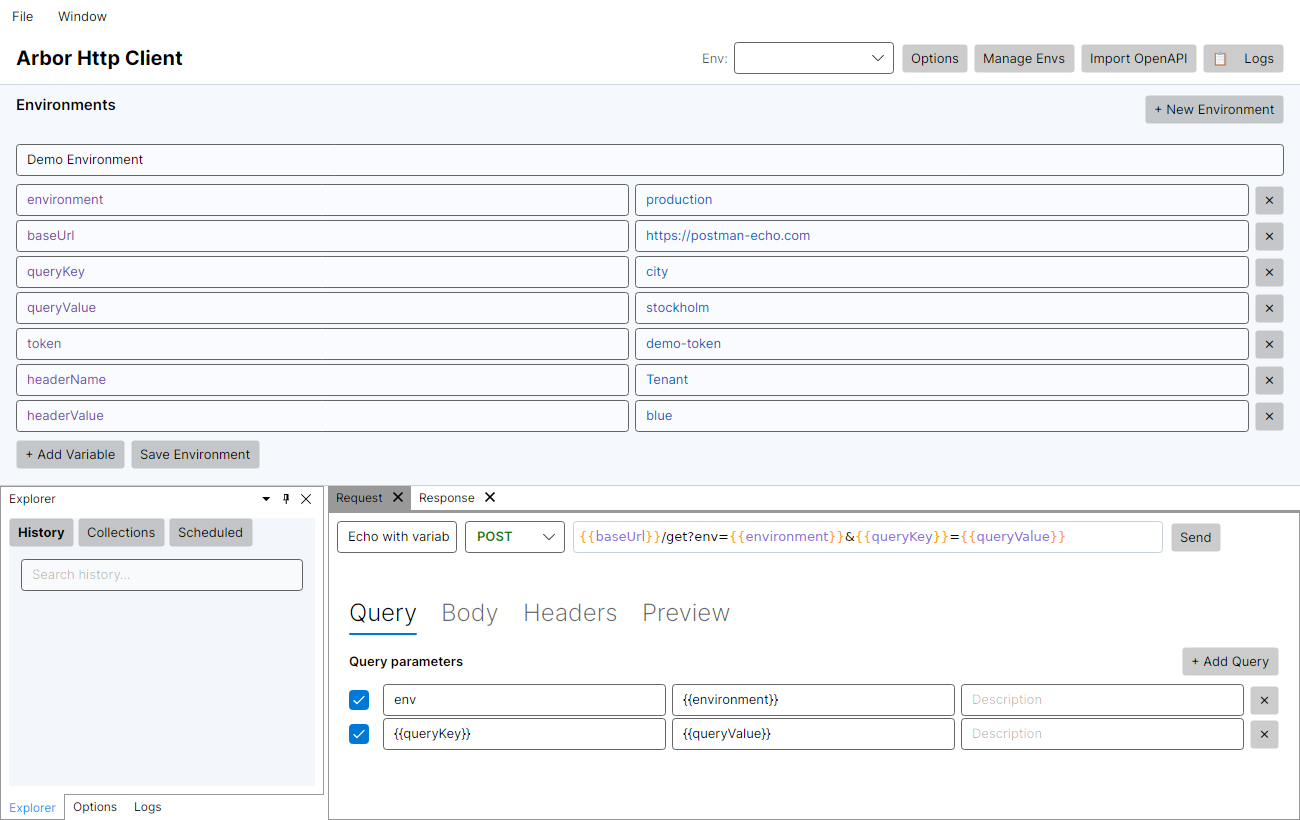
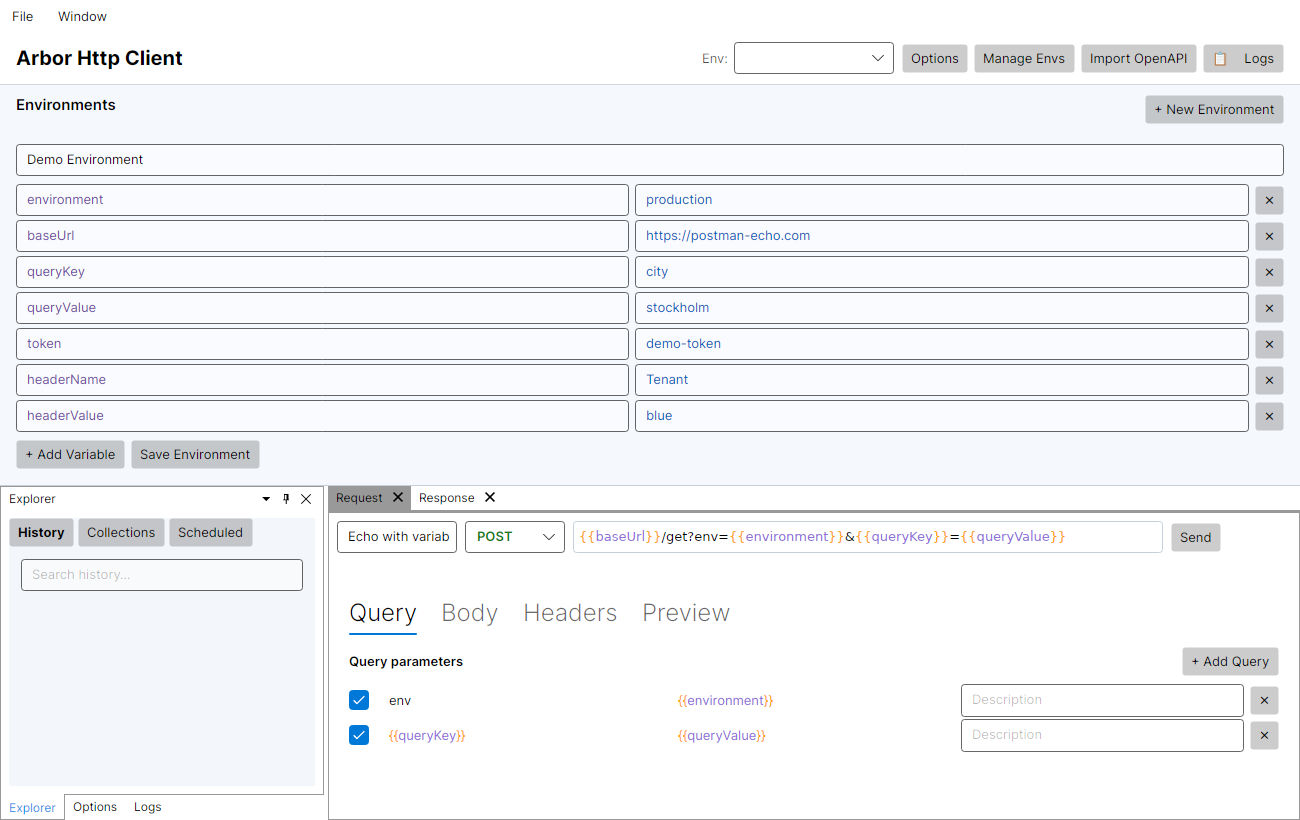
VariableTextBox: two-colour variable highlighting in query/header key+value inputs
Agent-Logs-Url: https://github.com/niklaslundberg/Arbor.HttpClient/sessions/225b7a9d-043f-45ff-8d0f-ff84c1bf80d8

diff --git a/src/Arbor.HttpClient.Desktop/Views/VariableTextBox.cs b/src/Arbor.HttpClient.Desktop/Views/VariableTextBox.cs
@@ -1,0 +1,168 @@
+using Avalonia;
+using Avalonia.Controls;
+using Avalonia.Controls.Primitives;
+using Avalonia.Media;
+
+namespace Arbor.HttpClient.Desktop.Views;
+
+/// <summary>
+/// A single-line text input that highlights <c>{{variable}}</c> tokens with two-colour syntax
+/// coloring (bracket colour vs. name colour) while otherwise appearing identical to a Fluent
+/// <c>TextBox</c>. Use <see cref="TextProperty"/> with <c>Mode=TwoWay</c> for data binding.
+/// </summary>
+public sealed class VariableTextBox : UserControl
+{
+    public static readonly StyledProperty<string> TextProperty =
+        AvaloniaProperty.Register<VariableTextBox, string>(nameof(Text), defaultValue: string.Empty);
+
+    public static readonly StyledProperty<string> PlaceholderTextProperty =
+        AvaloniaProperty.Register<VariableTextBox, string>(nameof(PlaceholderText), defaultValue: string.Empty);
+
+    private readonly AvaloniaEdit.TextEditor _editor;
+    private readonly TextBlock _placeholder;
+    private readonly VariableTokenColorizer _colorizer = new();
+    private readonly Border _border;
+    private bool _updatingText;
+
+    public string Text
+    {
+        get => GetValue(TextProperty);
+        set => SetValue(TextProperty, value);
+    }
+
+    public string PlaceholderText
+    {
+        get => GetValue(PlaceholderTextProperty);
+        set => SetValue(PlaceholderTextProperty, value);
+    }
+
+    public VariableTextBox()
+    {
+        _editor = new AvaloniaEdit.TextEditor
+        {
+            ShowLineNumbers = false,
+            WordWrap = false,
+            HorizontalScrollBarVisibility = ScrollBarVisibility.Hidden,
+            VerticalScrollBarVisibility = ScrollBarVisibility.Hidden,
+            Padding = new Thickness(5, 6, 5, 6),
+            Background = Brushes.Transparent
+        };
+        _editor.TextArea.Background = Brushes.Transparent;
+        _editor.TextArea.TextView.LineTransformers.Add(_colorizer);
+        _editor.Document.TextChanged += OnEditorTextChanged;
+
+        _placeholder = new TextBlock
+        {
+            Margin = new Thickness(7, 0, 0, 0),
+            VerticalAlignment = Avalonia.Layout.VerticalAlignment.Center,
+            IsHitTestVisible = false,
+            Opacity = 0.5,
+            IsVisible = true
+        };
+
+        var layer = new Grid();
+        layer.Children.Add(_placeholder);
+        layer.Children.Add(_editor);
+
+        _border = new Border
+        {
+            BorderThickness = new Thickness(1),
+            CornerRadius = new CornerRadius(3),
+            Child = layer
+        };
+
+        Content = _border;
+
+        ActualThemeVariantChanged += (_, _) => ApplyBrushes();
+    }
+
+    protected override void OnAttachedToVisualTree(VisualTreeAttachmentEventArgs e)
+    {
+        base.OnAttachedToVisualTree(e);
+        ApplyFont();
+        ApplyBrushes();
+    }
+
+    protected override void OnPropertyChanged(AvaloniaPropertyChangedEventArgs change)
+    {
+        base.OnPropertyChanged(change);
+
+        if (change.Property == TextProperty && !_updatingText)
+        {
+            var text = GetValue(TextProperty) ?? string.Empty;
+            if (_editor.Text != text)
+            {
+                _editor.Text = text;
+            }
+            _placeholder.IsVisible = string.IsNullOrEmpty(text);
+        }
+        else if (change.Property == PlaceholderTextProperty)
+        {
+            _placeholder.Text = GetValue(PlaceholderTextProperty);
+        }
+        else if (change.Property == FontFamilyProperty)
+        {
+            _editor.FontFamily = FontFamily;
+            _placeholder.FontFamily = FontFamily;
+        }
+        else if (change.Property == FontSizeProperty)
+        {
+            _editor.FontSize = FontSize;
+            _placeholder.FontSize = FontSize;
+        }
+    }
+
+    private void OnEditorTextChanged(object? sender, EventArgs e)
+    {
+        _updatingText = true;
+        try
+        {
+            var text = _editor.Text;
+            SetValue(TextProperty, text);
+            _placeholder.IsVisible = string.IsNullOrEmpty(text);
+        }
+        finally
+        {
+            _updatingText = false;
+        }
+    }
+
+    private void ApplyFont()
+    {
+        _editor.FontFamily = FontFamily;
+        _editor.FontSize = FontSize;
+        _placeholder.FontFamily = FontFamily;
+        _placeholder.FontSize = FontSize;
+    }
+
+    private void ApplyBrushes()
+    {
+        IBrush bracketBrush = Brushes.Orange;
+        IBrush nameBrush = Brushes.MediumPurple;
+
+        if (Application.Current?.TryGetResource("VariableBracketBrush", out var b) == true && b is IBrush bb)
+        {
+            bracketBrush = bb;
+        }
+
+        if (Application.Current?.TryGetResource("VariableNameBrush", out var n) == true && n is IBrush nb)
+        {
+            nameBrush = nb;
+        }
+
+        _colorizer.SetBrushes(bracketBrush, nameBrush);
+        _editor.TextArea.TextView.Redraw();
+
+        if (Application.Current?.TryGetResource("PanelBorderBrush", out var borderResource) == true &&
+            borderResource is IBrush borderBrush)
+        {
+            _border.BorderBrush = borderBrush;
+        }
+
+        if (Application.Current?.TryGetResource("SurfaceBackgroundBrush", out var bgResource) == true &&
+            bgResource is IBrush bgBrush)
+        {
+            _border.Background = bgBrush;
+        }
+    }
+}

diff --git a/src/Arbor.HttpClient.Desktop.E2E.Tests/ScreenshotGenerator.cs b/src/Arbor.HttpClient.Desktop.E2E.Tests/ScreenshotGenerator.cs
@@ -197,6 +197,120 @@ public class ScreenshotGenerator
     }
 
     [Fact]
+    public async Task GenerateVariablesQueryTabScreenshot()
+    {
+        var outputDir = Environment.GetEnvironmentVariable("SCREENSHOT_OUTPUT_DIR")
+            ?? Path.GetTempPath();
+        Directory.CreateDirectory(outputDir);
+
+        using var session = HeadlessUnitTestSession.StartNew(typeof(ScreenshotEntryPoint));
+
+        await session.Dispatch(async () =>
+        {
+            var (viewModel, window) = CreateWindow(
+                BuildHandler("{\"ok\":true}"),
+                requestName: "Query with variables",
+                method: "GET",
+                url: "{{baseUrl}}/search");
+
+            viewModel.RequestQueryParameters.Add(new RequestQueryParameterViewModel
+            {
+                Key = "{{queryKey}}",
+                Value = "{{queryValue}}",
+                IsEnabled = true
+            });
+            viewModel.RequestQueryParameters.Add(new RequestQueryParameterViewModel
+            {
+                Key = "env",
+                Value = "{{environment}}",
+                IsEnabled = true
+            });
+            viewModel.RequestHeaders.Add(new RequestHeaderViewModel
+            {
+                Name = "X-{{headerName}}",
+                Value = "{{headerValue}}",
+                IsEnabled = true
+            });
+
+            viewModel.NewEnvironmentName = "Demo Environment";
+            viewModel.ActiveEnvironmentVariables.Add(new EnvironmentVariableViewModel("baseUrl", "https://postman-echo.com"));
+            viewModel.ActiveEnvironmentVariables.Add(new EnvironmentVariableViewModel("queryKey", "city"));
+            viewModel.ActiveEnvironmentVariables.Add(new EnvironmentVariableViewModel("queryValue", "stockholm"));
+            viewModel.ActiveEnvironmentVariables.Add(new EnvironmentVariableViewModel("environment", "production"));
+            viewModel.ActiveEnvironmentVariables.Add(new EnvironmentVariableViewModel("headerName", "Tenant"));
+            viewModel.ActiveEnvironmentVariables.Add(new EnvironmentVariableViewModel("headerValue", "blue"));
+            viewModel.IsEnvironmentPanelVisible = false;
+
+            window.Show();
+            var tabControl = window.GetVisualDescendants().OfType<TabControl>().FirstOrDefault();
+            if (tabControl is not null)
+            {
+                tabControl.SelectedIndex = 0; // Query tab
+            }
+
+            AvaloniaHeadlessPlatform.ForceRenderTimerTick(3);
+            var frame = window.GetLastRenderedFrame() ?? window.CaptureRenderedFrame();
+            frame?.Save(Path.Combine(outputDir, "variables-query-tab.png"));
+
+            window.Close();
+            return true;
+        }, CancellationToken.None);
+    }
+
+    [Fact]
+    public async Task GenerateVariablesHeadersTabScreenshot()
+    {
+        var outputDir = Environment.GetEnvironmentVariable("SCREENSHOT_OUTPUT_DIR")
+            ?? Path.GetTempPath();
+        Directory.CreateDirectory(outputDir);
+
+        using var session = HeadlessUnitTestSession.StartNew(typeof(ScreenshotEntryPoint));
+
+        await session.Dispatch(async () =>
+        {
+            var (viewModel, window) = CreateWindow(
+                BuildHandler("{\"ok\":true}"),
+                requestName: "Headers with variables",
+                method: "POST",
+                url: "{{baseUrl}}/api");
+
+            viewModel.RequestHeaders.Add(new RequestHeaderViewModel
+            {
+                Name = "X-{{headerName}}",
+                Value = "{{headerValue}}",
+                IsEnabled = true
+            });
+            viewModel.RequestHeaders.Add(new RequestHeaderViewModel
+            {
+                Name = "Authorization",
+                Value = "Bearer {{token}}",
+                IsEnabled = true
+            });
+
+            viewModel.NewEnvironmentName = "Demo Environment";
+            viewModel.ActiveEnvironmentVariables.Add(new EnvironmentVariableViewModel("baseUrl", "https://postman-echo.com"));
+            viewModel.ActiveEnvironmentVariables.Add(new EnvironmentVariableViewModel("headerName", "Tenant"));
+            viewModel.ActiveEnvironmentVariables.Add(new EnvironmentVariableViewModel("headerValue", "blue"));
+            viewModel.ActiveEnvironmentVariables.Add(new EnvironmentVariableViewModel("token", "demo-token"));
+            viewModel.IsEnvironmentPanelVisible = false;
+
+            window.Show();
+            var tabControl = window.GetVisualDescendants().OfType<TabControl>().FirstOrDefault();
+            if (tabControl is not null)
+            {
+                tabControl.SelectedIndex = 2; // Headers tab
+            }
+
+            AvaloniaHeadlessPlatform.ForceRenderTimerTick(3);
+            var frame = window.GetLastRenderedFrame() ?? window.CaptureRenderedFrame();
+            frame?.Save(Path.Combine(outputDir, "variables-headers-tab.png"));
+
+            window.Close();
+            return true;
+        }, CancellationToken.None);
+    }
+
+    [Fact]
     public async Task GenerateVariablesPreviewScreenshot()
     {
         var outputDir = Environment.GetEnvironmentVariable("SCREENSHOT_OUTPUT_DIR")
